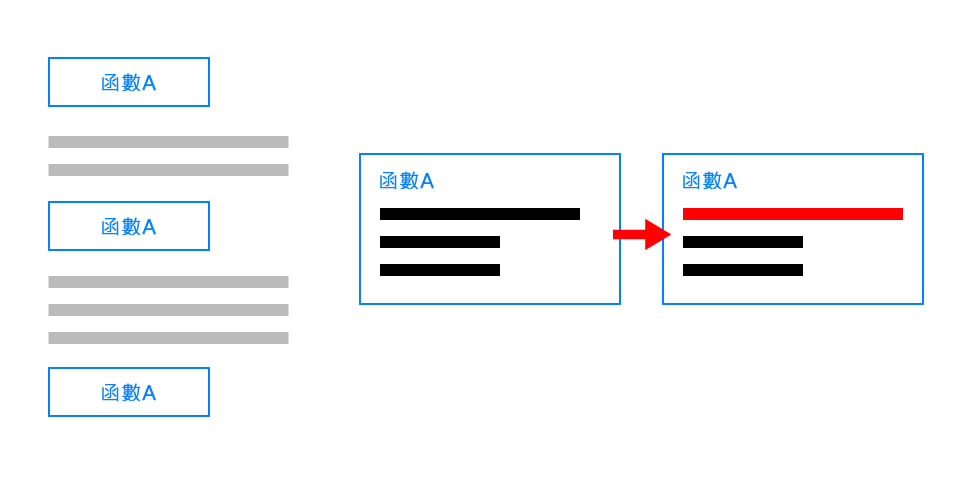
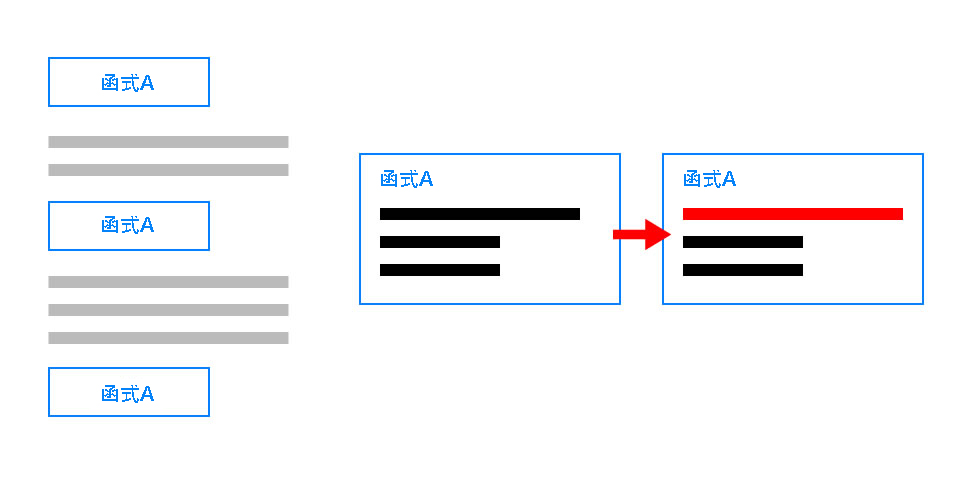
20231109-v2

diff --git a/pages/javascript/_faq_js.vue b/pages/javascript/_faq_js.vue
@@ -15,6 +15,126 @@
     <div class="text-block" id="act1">
         <h2>一、錯誤訊息</h2>
         <div class="text-accordin is-error">
+            <div class="accordin-item" :class="isActive==1001 ? 'is-active' : ''">
+                <div class="accordin-title" @click="isActive = 1001;">
+                    <p>Uncaught ReferenceError: dog is not defined.</p>
+                </div>
+                <div class="accordin-content">
+                    <p>意思是變數 <em>dog</em> 沒有經過定義（宣告），檢查回傳錯誤的程式所呼叫的作用域內是否有宣告 <em>dog</em> 變數。</p>
+                </div>
+                <button class="accordin-close" @click="isActive = 0;"></button>
+            </div>
+            <div class="accordin-item" :class="isActive==1002 ? 'is-active' : ''">
+                <div class="accordin-title" @click="isActive = 1002;">
+                    <p>Uncaught ReferenceError: Cannot access 'dog' before initialization.</p>
+                </div>
+                <div class="accordin-content">
+                    <p>這個問題通常發生在我們使用 <em>let</em>、<em>const</em> 宣告變數，但在該變數（例如 <em>dog</em>）宣告前我們就嘗試透過程式引用它，因而發生錯誤。</p>
+                    <p>錯誤範例：</p>
+                    <div class="text-code" v-pre>
+                        <pre><code class="language-javascript">console.log(dog);
+let dog = "阿比";</code></pre>
+                    </div>
+                    <p>正確範例：</p>
+                    <div class="text-code" v-pre>
+                        <pre><code class="language-javascript">let dog = "阿比";
+console.log(dog);</code></pre>
+                    </div>
+                </div>
+                <button class="accordin-close" @click="isActive = 0;"></button>
+            </div>
+            <div class="accordin-item" :class="isActive==1003 ? 'is-active' : ''">
+                <div class="accordin-title" @click="isActive = 1003;">
+                    <p>Uncaught SyntaxError: Identifier 'dog' has already been declared.</p>
+                </div>
+                <div class="accordin-content">
+                    <p>意思是變數 <em>dog</em> 已經在相同作用域內被宣告過了，而現在又重複宣告了它。這項錯誤主要發生在我們用 <em>let</em>、<em>const</em> 關鍵字於同一個作用域範圍內宣告重複名稱的變數而產生。</p>
+                    <p>錯誤範例：</p>
+                    <div class="text-code" v-pre>
+                        <pre><code class="language-javascript">function Animal() {
+    let dog = "阿比";
+    // ...其他程式
+    let dog = "咪咪";    // &lt;-- 重複宣告相同的變數名而發生錯誤
+}</code></pre>
+                    </div>
+                </div>
+                <button class="accordin-close" @click="isActive = 0;"></button>
+            </div>
+            <div class="accordin-item" :class="isActive==1004 ? 'is-active' : ''">
+                <div class="accordin-title" @click="isActive = 1004;">
+                    <p>Missing initializer in const declaration.</p>
+                </div>
+                <div class="accordin-content">
+                    <p>這個錯誤警示是在說宣告關鍵字 <em>const</em> 在宣告時缺少初始化程序，通常是當我們使用的 <em>const</em> 只有宣告變數名稱，而沒有賦值給它的情況產生的錯誤，因為 <em>const</em> 宣告的同時就必須指定它的值。</p>
+                    <p>錯誤範例：</p>
+                    <div class="text-code" v-pre>
+                        <pre><code class="language-javascript">const dog;</code></pre>
+                    </div>
+                    <p>正確範例：</p>
+                    <div class="text-code" v-pre>
+                        <pre><code class="language-javascript">const dog = "阿比";</code></pre>
+                    </div>
+                </div>
+                <button class="accordin-close" @click="isActive = 0;"></button>
+            </div>
+            <div class="accordin-item" :class="isActive==1005 ? 'is-active' : ''">
+                <div class="accordin-title" @click="isActive = 1005;">
+                    <p>Uncaught TypeError: Assignment to constant variable.</p>
+                </div>
+                <div class="accordin-content">
+                    <p>意思是我們嘗試對一個透過 <em>const</em> 宣告的變數（<em>dog</em>）重新賦值給它，經由 <em>const</em> 宣告的變數又稱為常數，常數不能被重新賦值。</p>
+                    <p>錯誤範例：</p>
+                    <div class="text-code" v-pre>
+                        <pre><code class="language-javascript">const dog = "阿比";
+dog = "咪咪";    // &lt;-- 發生錯誤</code></pre>
+                    </div>
+                </div>
+                <button class="accordin-close" @click="isActive = 0;"></button>
+            </div>
+            <div class="accordin-item" :class="isActive==1006 ? 'is-active' : ''">
+                <div class="accordin-title" @click="isActive = 1006;">
+                    <p>Uncaught SyntaxError: Unexpected token 'var'.</p>
+                </div>
+                <div class="accordin-content">
+                    <p>此錯誤訊息是在告知我們在不允許的位置使用了 <em>var</em> 這個關鍵字。不只是 <em>var</em>，任何 JavaScript 存在的關鍵字（例如 <em>if</em>、<em>for</em>、<em>function</em>...）如果在不合乎規則的地方被使用，就會產生這個錯誤。</p>
+                    <p>錯誤範例：</p>
+                    <div class="text-code" v-pre>
+                        <pre><code class="language-javascript">var var = "阿比";</code></pre>
+                    </div>
+                </div>
+                <button class="accordin-close" @click="isActive = 0;"></button>
+            </div>
+            <div class="accordin-item" :class="isActive==1007 ? 'is-active' : ''">
+                <div class="accordin-title" @click="isActive = 1007;">
+                    <p>Uncaught SyntaxError: Unexpected number.</p>
+                </div>
+                <div class="accordin-content">
+                    <p>此錯誤訊息通常發生在我們使用數字當作變數宣告命名的開頭。</p>
+                    <p>錯誤範例：</p>
+                    <div class="text-code" v-pre>
+                        <pre><code class="language-javascript">var 9547 = "阿比";</code></pre>
+                    </div>
+                </div>
+                <button class="accordin-close" @click="isActive = 0;"></button>
+            </div>
+            <div class="accordin-item" :class="isActive==1008 ? 'is-active' : ''">
+                <div class="accordin-title" @click="isActive = 1008;">
+                    <p>Uncaught SyntaxError: Invalid or unexpected token.</p>
+                </div>
+                <div class="accordin-content">
+                    <p>這類錯誤訊息通常都是在說宣告的變數名稱中，包含不允許的字符或特殊符號。</p>
+                    <p>錯誤範例：</p>
+                    <div class="text-code" v-pre>
+                        <pre><code class="language-javascript">var &dog = "阿比";    // Uncaught SyntaxError: Unexpected token '&'
+var do@g = "阿比";    // Uncaught SyntaxError: Unexpected token 'do'
+var dog# = "阿比";    // Uncaught SyntaxError: Invalid or unexpected token
+var do.g = "阿比";    // Uncaught SyntaxError: Unexpected token 'do'
+var d+o+g = "阿比";    // Uncaught SyntaxError: Unexpected token '+'</code></pre>
+                    </div>
+                </div>
+                <button class="accordin-close" @click="isActive = 0;"></button>
+            </div>
+            
         </div>
     </div>
     <div class="text-block" id="act2">
@@ -25,8 +145,8 @@
     <div class="text-block" id="act3">
         <h2>三、問題集錦</h2>
         <div class="text-accordin is-others">
-            <div class="accordin-item" :class="isActive==1 ? 'is-active' : ''">
-                <div class="accordin-title" @click="isActive = 1;">
+            <div class="accordin-item" :class="isActive==3001 ? 'is-active' : ''">
+                <div class="accordin-title" @click="isActive = 3001;">
                     <p>介紹一些專有名詞以及其繁體、簡體中文的對應翻譯說法</p>
                 </div>
                 <div class="accordin-content">

diff --git a/pages/javascript/_js_learn01_var.vue b/pages/javascript/_js_learn01_var.vue
@@ -23,12 +23,6 @@
         <p>某天，阿比牽著一台油箱可容納 7 公升的摩托車去加油站加油，95 無鉛汽油的價格為每公升 20 元，在油箱一滴油都不剩的前提下，試問阿比此行要花多少加油錢？這是很簡單的數學運算，公式為「容升 x 每公升價格 = 總價格」，最終得出 140 元（7 x 20）的結果。然而，雖然摩托車的油箱容升是固定的，油價卻不可能永遠停在每公升 20 元，也許下週大降 0.1 元，下下週小漲 2 元...等，它是一種時不時發生改變的浮動數字，因此，我們就可以稱它是──或者說是使它成為一個變數。</p>
         <p>JavaScript 會透過定義變數的方式，快速取得每一次數值變動後的計算結果，最後更新到畫面元素裡（即 HTML 的元素標籤），對於掌管網頁動態資訊來往的 JavaScript 而言，基本上任何程式操作都很難脫離變數獨自去執行，因此，變數可說是 JavaScript 這門程式語言的重要核心之一，無時無刻都會看見也會使用到它。</p>
         <p>本篇文章學習 JavaScript 變數包含以下這些要點：</p>
-        <ul>
-            <li>宣告</li>
-            <li>作用域</li>
-            <li>資料型別</li>
-            <li>命名規則</li>
-        </ul>
     </div>
     <div class="text-block" id="act1">
         <h2>一、如何宣告變數？</h2>
@@ -843,11 +837,11 @@ var AnimalPlanetChannel = "動物星球頻道";</code></pre>
         </div>
         <p><br></p>
         <h5>匈牙利命名法（Hungarian Notation）：</h5>
-        <p>比起「駝峰式命名法」、「下底線命名法」，採用匈牙利命名法的人其實並不多，但 JavaScript 確實存在這麼一派使用者，其基本思想是在變數名稱裡除了描述用途的單字外，在其前綴加上該變數值的資料型別，精簡扼要來說它的命名公式是「資料型別＋名稱描述」。例如我們宣告一個存放狗名的變數，其賦值資料型別是字串，使用匈牙利命名法的方式將會是：</p>
+        <p>比起「駝峰式命名法」、「下底線命名法」，採用匈牙利命名法的人其實並不多，但 JavaScript 確實仍存在這麼一派使用者，其基本思想是在變數名稱裡除了描述用途的單字外，還會在其前綴加上該變數值的資料型別，精簡扼要來說，它的命名公式是「資料型別＋名稱描述」。例如我們宣告一個存放狗名的變數，其賦值資料型別是字串，使用匈牙利命名法的方式將會是：</p>
         <div class="text-code" v-pre>
             <pre><code class="language-javascript">var strDogName = "阿比";</code></pre>
         </div>
-        <p>看起來其實和駝峰式命名法差不多，不過透過匈牙利命名法宣告的變數，前綴基本上不外乎都是那些變數值的資料型別或特殊資料類型，至於常見有哪些前綴命名，請見下表：</p>
+        <p>因為名字通常都是字串，所以前綴使用 String 縮寫 str，書寫格式看起來其實和駝峰式命名法差不多，不過透過匈牙利命名法宣告的變數，前綴基本上不外乎都是那些變數值的資料型別或特殊資料類型，至於常見有哪些前綴命名，請見下表：</p>
         <div class="text-flex">
             <div class="f-width">
                 <div class="f-head">
@@ -892,6 +886,8 @@ var AnimalPlanetChannel = "動物星球頻道";</code></pre>
                 </div>
             </div>
         </div>
+        <p><br></p>
+        <p>以上命名觀念不單侷限於變數命名，函式命名方式同樣也適用。</p>
     </div>
     <div class="text-block" id="act5">
         <h2>五、總結</h2>
@@ -931,10 +927,10 @@ var AnimalPlanetChannel = "動物星球頻道";</code></pre>
             <li>不能使用特殊符號、破折號、句點與空白符。</li>
             <li>建議使用已知詞彙來命名。</li>
             <li>注意大小寫的區分。</li>
-            <li>常見的命名方式有「駝峰式命名法」、「下底線命名法」、「匈牙利命名法」。</li>
+            <li>主流命名方式有「駝峰式命名法」、「下底線命名法」、「匈牙利命名法」。</li>
         </ul>
         <p><br></p>
-        <p>至於本篇文章提到的 JavaScript 專業術語有以下這些，如有需要可以循著原詞單字順藤摸瓜去搜尋更專業、完整的教學文章：</p>
+        <p>至於本篇文章提到的 JavaScript 常見名詞術語有以下這些，但有些術語所代表的技術或知識已經超過本篇主題的範疇，礙於篇幅因此沒有辦法太深入探討，如有需要可以循著原詞單字順藤摸瓜去搜尋更專業、完整的教學文章：</p>
         <div class="text-flex">
             <div class="f-width">
                 <div class="f-head">
@@ -950,27 +946,32 @@ var AnimalPlanetChannel = "動物星球頻道";</code></pre>
                 <div class="f-row">
                     <div class="f-f1">Function</div>
                     <div class="f-f1">函式</div>
-                    <div class="f-f3"></div>
+                    <div class="f-f3">也有人稱為「函數」，是構成 Javascript 的基本要素之一，它將一系列的敘述句組合起來，以執行一項特定的工作。</div>
                 </div>
                 <div class="f-row">
                     <div class="f-f1">Scope</div>
                     <div class="f-f1">作用域</div>
-                    <div class="f-f3">指的是變數的可見性與其訪問的範圍</div>
+                    <div class="f-f3">指的是變數的可見性與其訪問的範圍，主要分為「全域」、「函式」、「區塊」三種作用域類型。</div>
                 </div>
                 <div class="f-row">
                     <div class="f-f1">Scope Chain</div>
                     <div class="f-f1">作用域鏈</div>
-                    <div class="f-f3"></div>
+                    <div class="f-f3">作用域鏈是 JavaScript 非常重要的概念之一，它決定了程式碼在尋找變數時的順序與範圍，即變數可見性與訪問權限。認識作用域鏈同時也是理解作用域與閉包的關鍵。</div>
+                </div>
+                <div class="f-row">
+                    <div class="f-f1">Closure</div>
+                    <div class="f-f1">閉包</div>
+                    <div class="f-f3">閉包是一個函式建立時的就有的自然特性。在 JavaScript 中每當函式被建立時，一個閉包就會被產生，其主要用途可以把程式中需要重複執行的部分透過閉包封裝起來，進一步簡化程式。</div>
                 </div>
                 <div class="f-row">
                     <div class="f-f1">Execution Contexts</div>
                     <div class="f-f1">執行環境</div>
-                    <div class="f-f3"></div>
+                    <div class="f-f3">執行環境指的是 JavaScript 執行時，引擎將程式碼拆解成許多區塊，並將這些區塊一塊塊堆疊起來，運算完結果就移除當前的區塊，然後繼續運算下一部分的區塊。</div>
                 </div>
                 <div class="f-row">
                     <div class="f-f1">Hoisting</div>
                     <div class="f-f1">提升</div>
-                    <div class="f-f3"></div>
+                    <div class="f-f3">「提升」是 JavaScript 中的一個概念行為，指的是在程式碼執行之前，JavaScript 引擎會將變數和函式的聲明提升到它們所在作用域的頂部。這意味著我們可以在宣告之前使用這些變數和函式。</div>
                 </div>
             </div>
         </div>

diff --git a/pages/javascript/_js_learn02_function.vue b/pages/javascript/_js_learn02_function.vue
@@ -1,0 +1,81 @@
+<template>
+    <NuxtLayout name="article">
+        <TempArticle :propValue="18" fileType="learnJs" />
+<!-- start -->
+<div class="text-content">
+    <div class="text-catalog">
+        <ul>
+            <li><a href="#act0">序、前言</a></li>
+            <li><a href="#act1">一、為什麼需要函式？</a></li>
+            <li><a href="#act2">二、如何定義函式？</a></li>
+            <li><a href="#act3">三、xxx</a></li>
+            <li><a href="#act4">四、xxx</a></li>
+            <li><a href="#act5">五、總結</a></li>
+            <li><a href="#act6">六、參考資料</a></li>
+        </ul>
+    </div>
+    <div class="text-block" id="act0">
+        <h2>序、前言</h2>
+        <blockquote>
+            <p>A JavaScript function is a block of code designed to perform a particular task.</p>
+            <p><br></p>
+            <p>A JavaScript function is executed when "something" invokes it (calls it).</p>
+        </blockquote>
+        <p>以上原文引述 <a href="https://www.w3schools.com/js/js_functions.asp" target="_blank">w3schools</a> 對 JavaScript「函式」一詞的描述，意指「函式是一段被設計用來執行特定任務的程式碼區塊，當『某事』調用（invokes）它時，該函式就會被執行」。</p>
+        <p>若要用日常生活的例子來形容，假設今天我們養了一條名字叫阿比的狗，每天都需要執行餵食、帶出去散步、幫忙鏟屎、擼毛...等事情，我們興許會用「照顧阿比」來統納這一連串的動作。站在 JavaScript 角度來看，「照顧阿比」這整個過程就可以稱為一個函式，其函式名稱就叫做「照顧阿比」，而餵食、散步、鏟屎等例行事項就是函式裡面要執行的程式，當我們安排每天行程表（某事）的時候，或是當別人問我們每天都在做些什麼事情（某事）的時候，便可以直接用「照顧阿比」來簡述（調用），而不用鉅細靡遺地把所有細項都寫出來，這就是函式的目的，也是它的好處──簡化程式碼，而且也能重複被調用。</p>
+        <p>當然函式也沒有這麼單純，從定義到方法，還有傳入的參數、調用...等等，有很多東西值得深入探討，本篇文章主題將著重於函式各項知識及運用的詳細記錄。</p>
+    </div>
+    <div class="text-block" id="act1">
+        <h2>一、為什麼需要函式？</h2>
+        <p>部份聰明的人或許已經從前言列舉的「照顧阿比」範例中推敲出 JavaScript 為什麼會需要函式來處理程式腳本，不過在這個章節還是詳細說明一下。在哲宇老師的 JavaScript 教程曾經說過，程式開發者寫程式時應該避免以下三件事情：「重複相同程式碼」、「無規劃 / 命名陳述目的」、「無法重複使用」。這些不好的撰寫方式都會導致程式執行效率不佳或帶來維護不易的麻煩，舉例來說：</p>
+        <figure>
+            <img src="/images/learn/js/learn-function-1.jpg">
+        </figure>
+        <p>上方的範例示意圖裡存在三塊相同的重複程式碼（黑色方塊），當有一天需要針對某部份（紅色方塊）進行修改時，就得重複三次相同的作業流程。如果只有寥寥數行可能不覺得有什麼，假如修改範圍多達數十行，又或者其重複使用的地方很多，勢必需要投注大量的時間成本在同樣的事情上。然而，如果我們能將這些重複的程式碼「獨立」出來，使其可以被統一集中管理，並使其模組化，那麼就可以避免重複編寫一樣的程式，同時又可以在不同的程式碼功能重複呼叫它，大幅度增加程式的效能與易讀性。實現此一理想的方法，JavaScript 稱之為「函式」。</p>
+        <figure>
+            <img src="/images/learn/js/learn-function-2.jpg">
+            <figcaption>利用函式來處理重複使用的程式碼。</figcaption>
+        </figure>
+    </div>
+
+    <div class="text-block" id="act5">
+        <h2>五、總結</h2>
+        <p>回顧本篇文章，精簡總結一下我們從變數身上學到哪些東西：</p>
+        <h5>1. xxx</h5>
+        <ul>
+            <li>xxxx。</li>
+        </ul>
+        <p><br></p>
+        <p>至於本篇文章提到的 JavaScript 常見名詞術語有以下這些，但有些術語所代表的技術或知識已經超過本篇主題的範疇，礙於篇幅因此沒有辦法太深入探討，如有需要可以循著原詞單字順藤摸瓜去搜尋更專業、完整的教學文章：</p>
+        <div class="text-flex">
+            <div class="f-width">
+                <div class="f-head">
+                    <div class="f-f1">名詞</div>
+                    <div class="f-f1">中譯</div>
+                    <div class="f-f3">說明</div>
+                </div>
+                <div class="f-row">
+                    <div class="f-f1">Function</div>
+                    <div class="f-f1">函式</div>
+                    <div class="f-f3">也有人稱為「函數」，是構成 Javascript 的基本要素之一，它將一系列的敘述句組合起來，以執行一項特定的工作。</div>
+                </div>
+            </div>
+        </div>
+    </div>
+    <div class="text-block" id="act6">
+        <h2>六、參考資料</h2>
+        <dl>
+            <dd><a href="https://www.books.com.tw/products/0010744702" target="_blank">《JavaScript & JQuery：網站互動設計程式進化之道》</a></dd>
+        </dl>
+    </div>
+</div>
+<!-- end -->
+    </NuxtLayout>
+</template>
+
+<script setup lang="ts">
+    // layout
+    definePageMeta({
+        layout: false
+    });
+</script>

diff --git a/assets/scss/pages/_text.scss b/assets/scss/pages/_text.scss
@@ -985,9 +985,23 @@
 }
 
 .accordin-title {
+    position: relative;
     padding: .5rem 1rem;
-    opacity: 0.7;
     cursor: pointer;
+    &::before {
+        content: '';
+        position: absolute;
+        top: 0;
+        left: 0;
+        display: block;
+        width: 100%;
+        height: 100%;
+        border-width: 2px;
+        border-style: solid;
+        opacity: 0;
+        pointer-events: none;
+        transition: all .1s;
+    }
     p {
         margin-bottom: 0;
         &::before {
@@ -999,6 +1013,9 @@
     .is-error & {
         color: #ed6363;
         background-color: #ffebeb;
+        &::before {
+            border-color: #ed6363;
+        }
         p {
             &::before {
                 content: '\f057';
@@ -1008,6 +1025,9 @@
     .is-warning & {
         color: #000;
         background-color: #fff9db;
+        &::before {
+            border-color: #ffe066;
+        }
         p {
             &::before {
                 content: '\f071';
@@ -1018,6 +1038,9 @@
     .is-others & {
         color: #000;
         background-color: #ebf8ff;
+        &::before {
+            border-color: #63b3ed;
+        }
         p {
             &::before {
                 content: '\f05a';
@@ -1027,7 +1050,9 @@
     }
     &:hover,
     .is-active & {
-        opacity: 1;
+        &::before {
+            opacity: 1;
+        }
     }
 }
 
